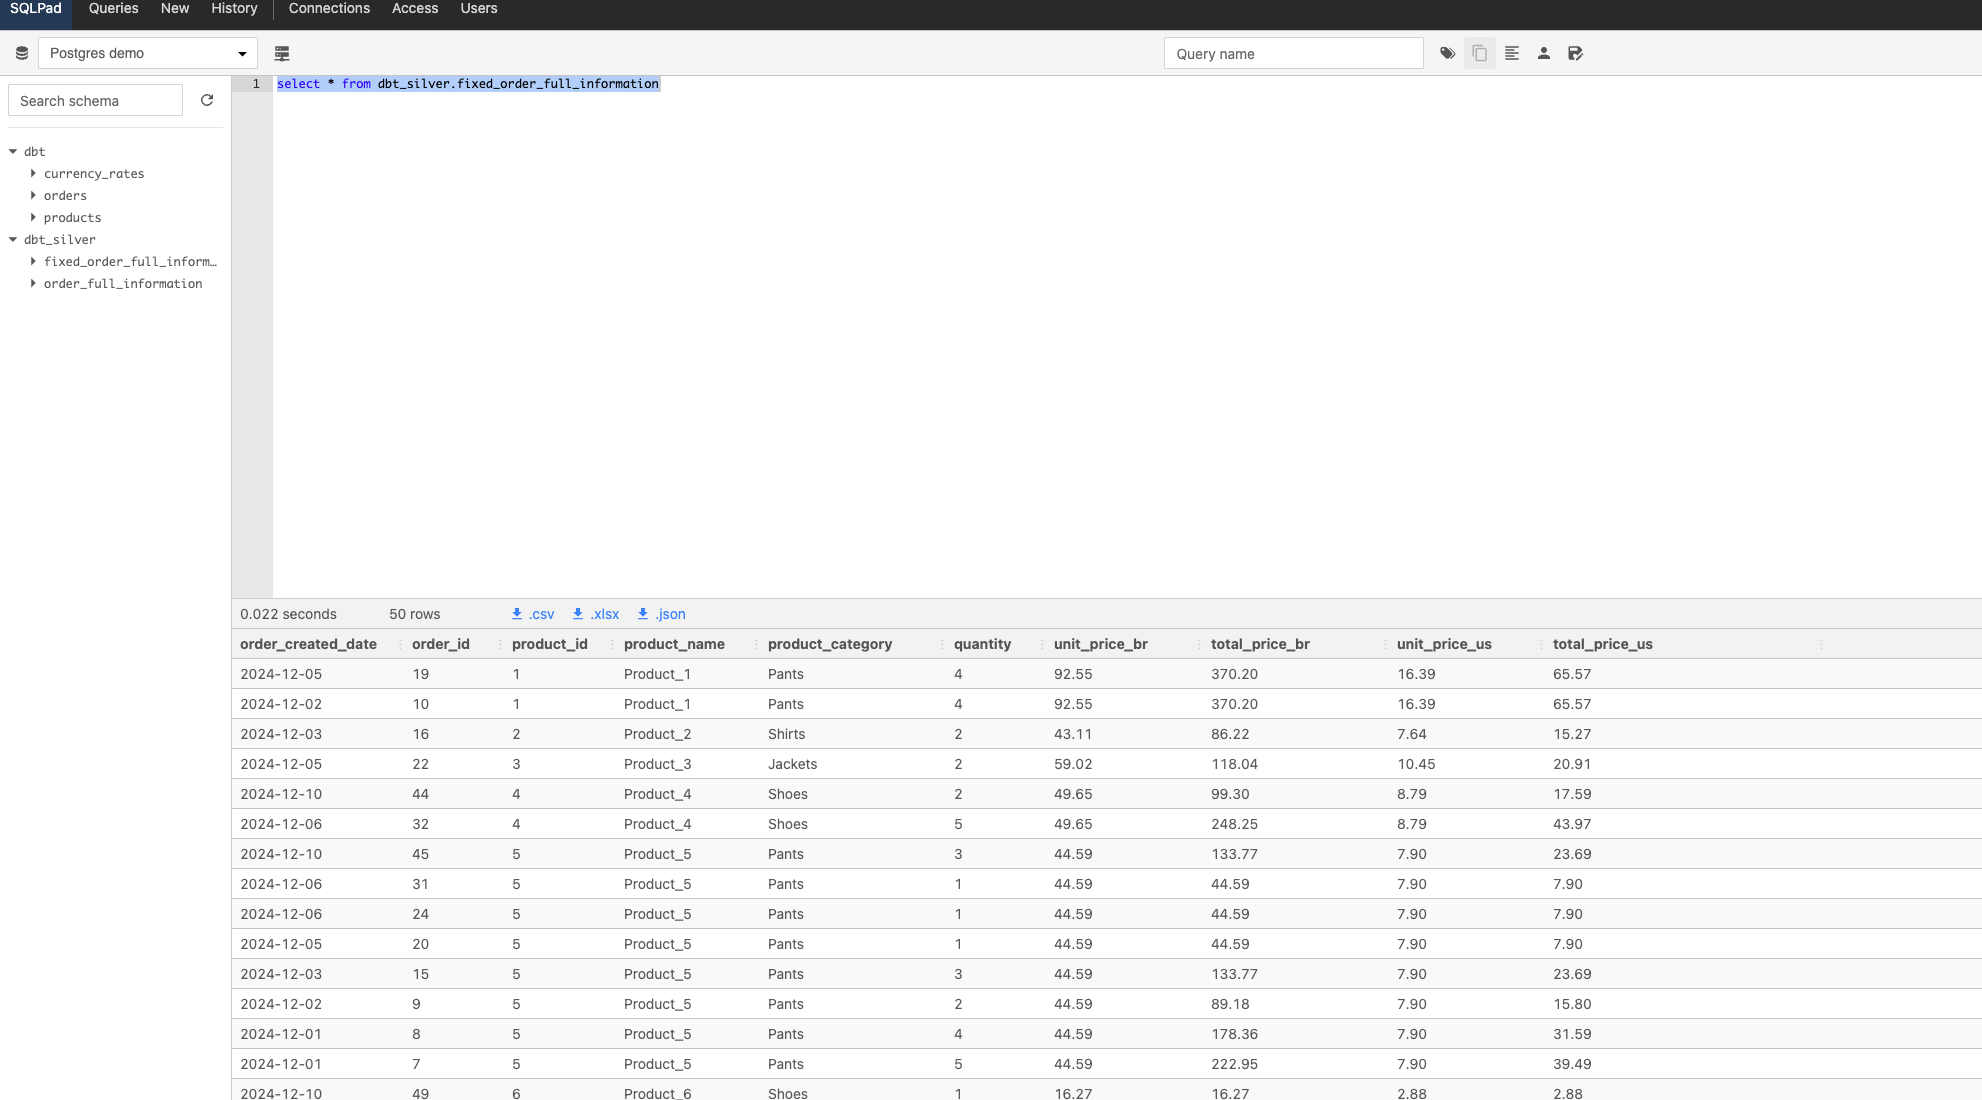
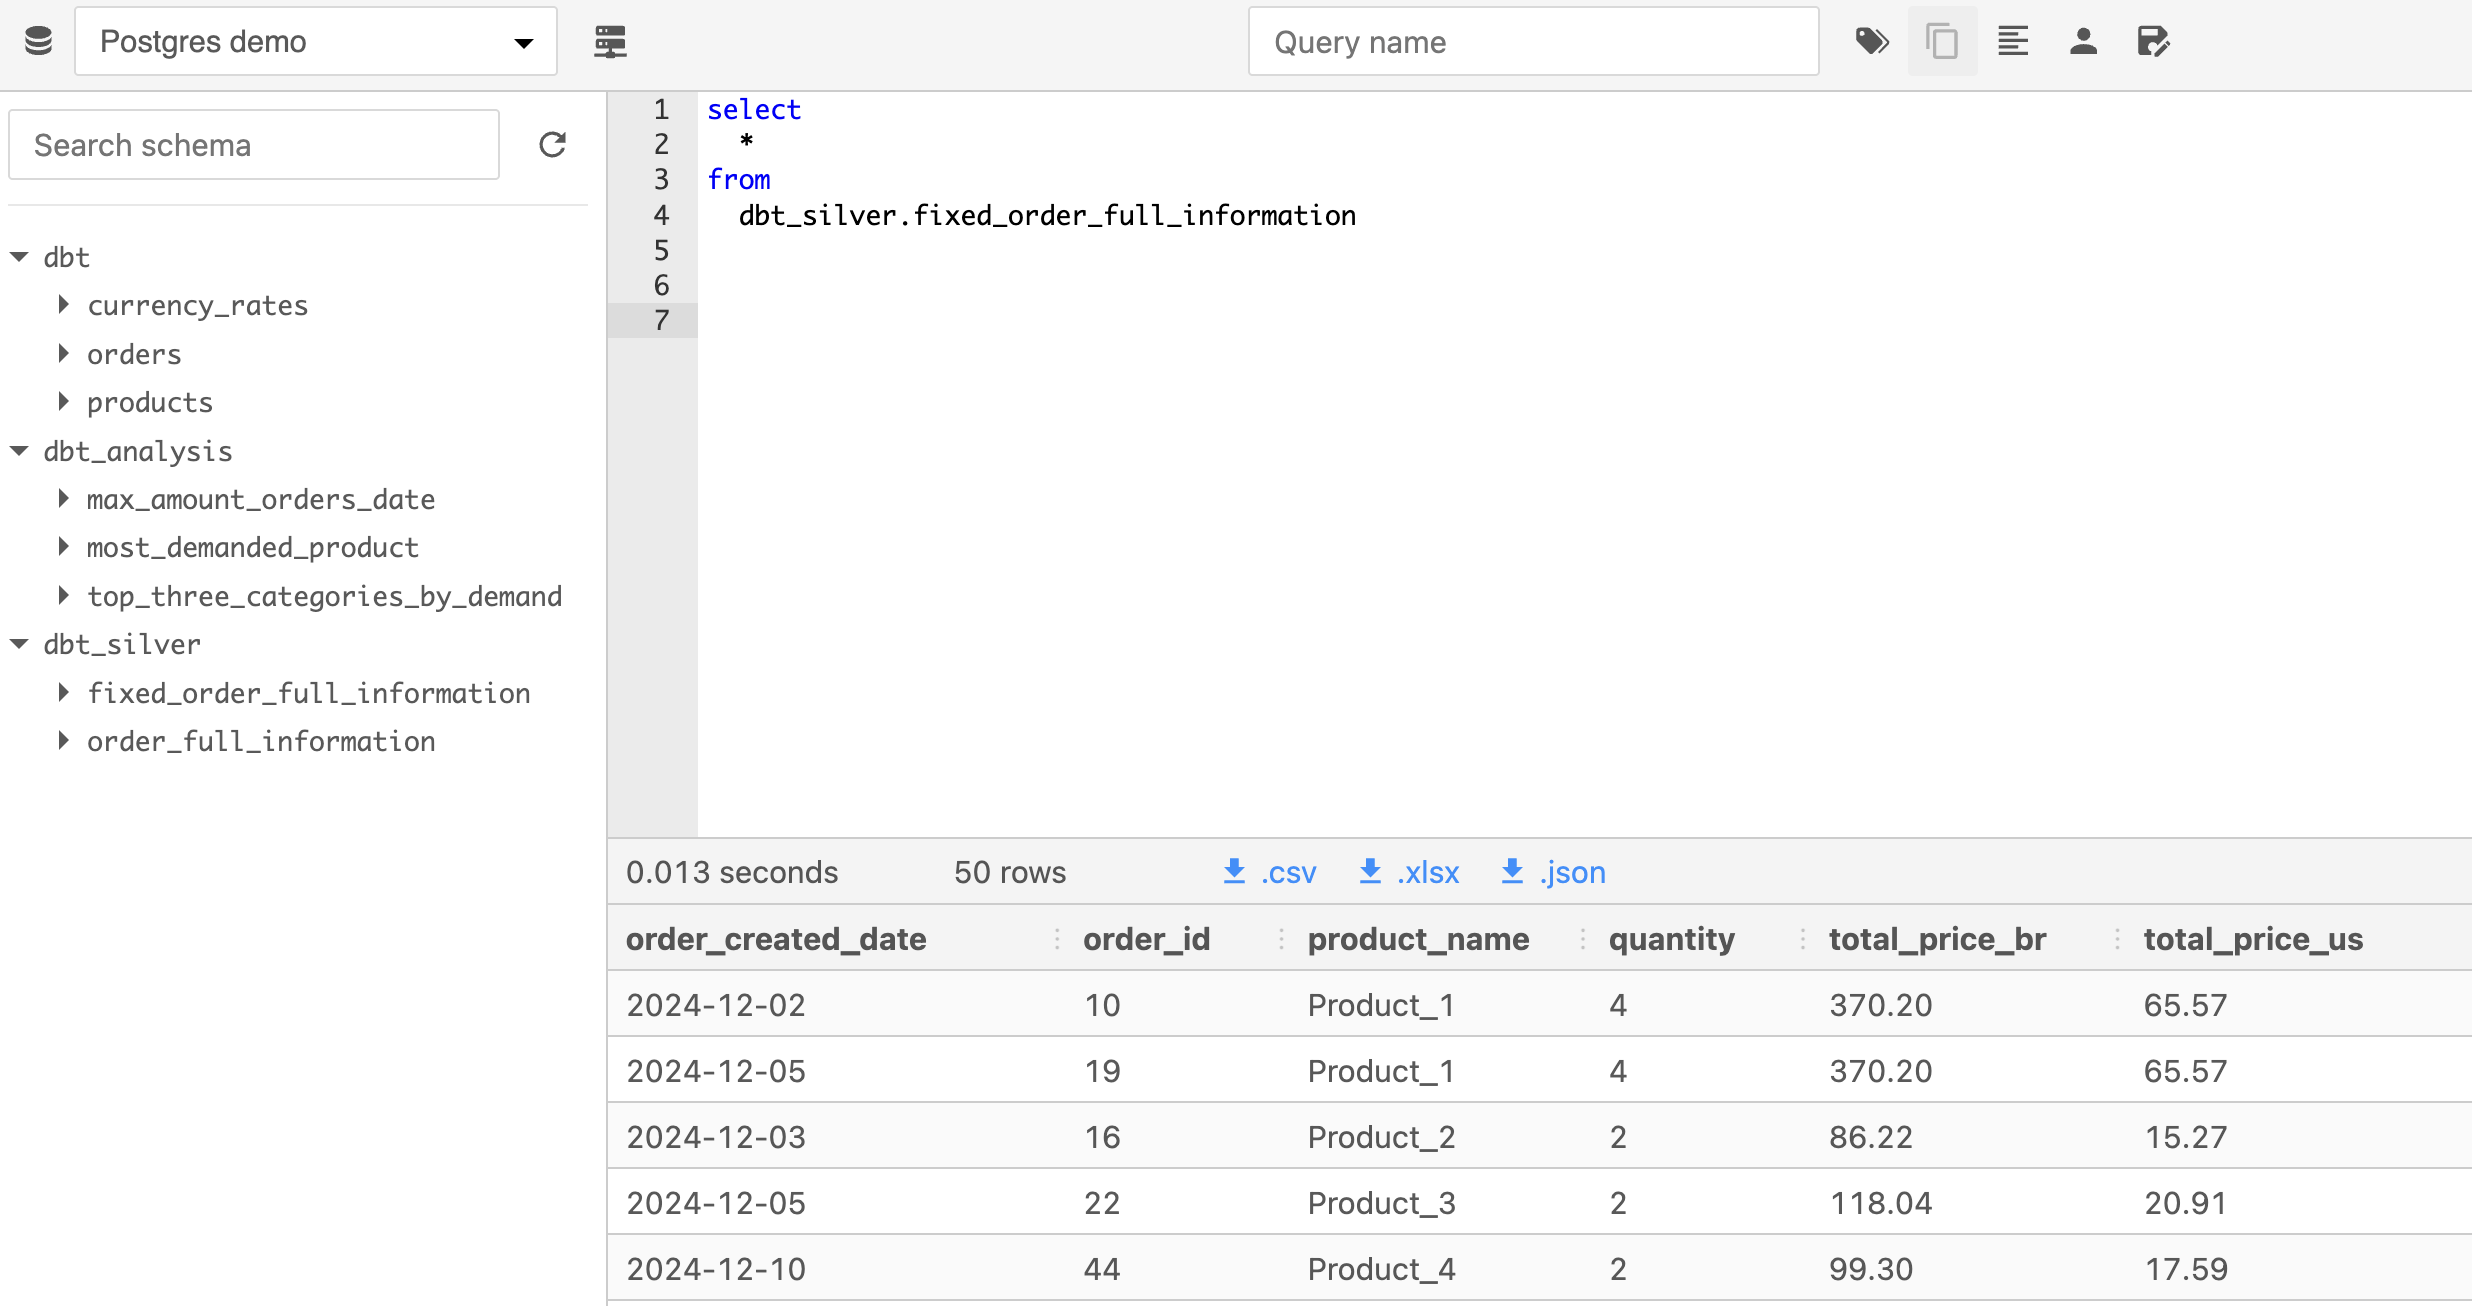
📝 add documentation

diff --git a/README.md b/README.md
@@ -127,3 +127,17 @@ We can also see the **currency_rates** table which is updated every hour as well
 
 #### Table fixed_order_full_information
 ![table_products](./pictures/fixed_order_full_information.png)
+
+
+We can also view the result of the analysis queries
+
+#### Table max_amount_orders
+![table_products](./pictures/max_amount_orders.png)
+
+
+#### Table most_demanded_product
+![table_products](./pictures/most_demanded_product.png)
+
+
+#### Table top_three_categories_by_demand
+![table_products](./pictures/top_three_categories_by_demand.png)
